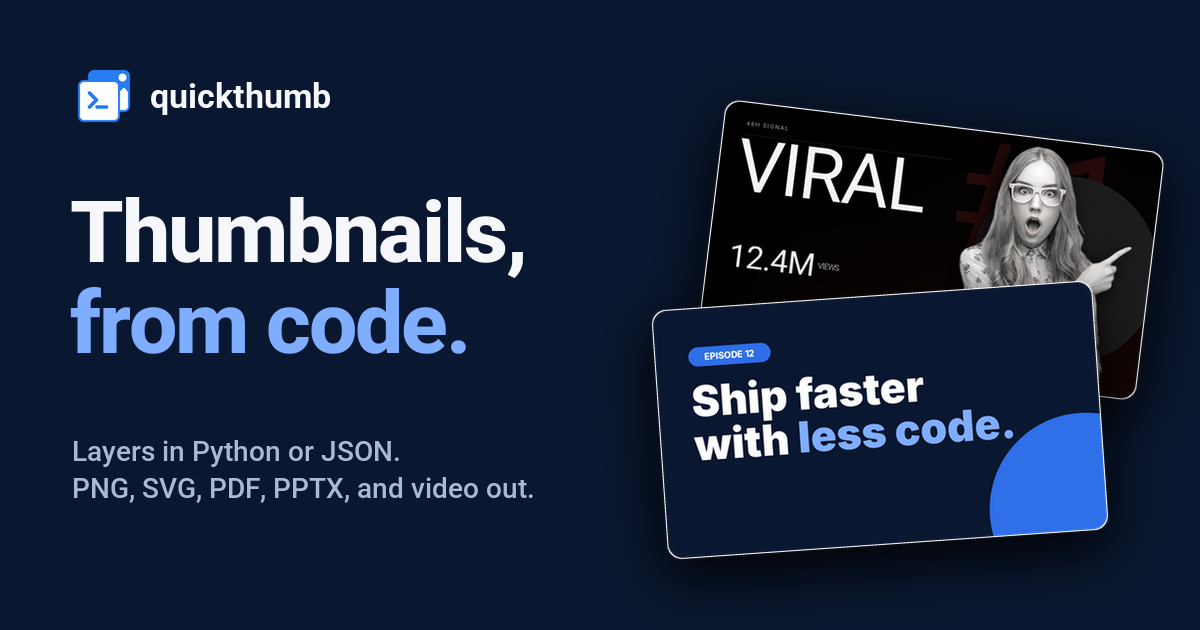
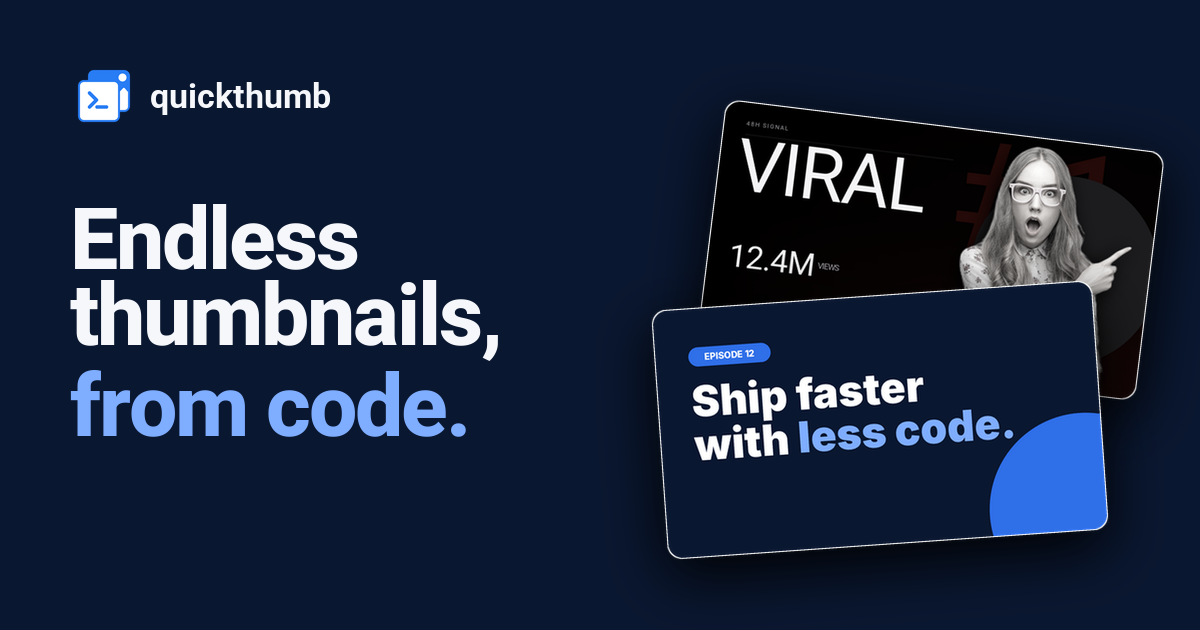
docs: focus social preview on endless thumbnails

Changed region(s): [[0.0617, 0.3016, 0.4625, 0.8143]]

diff --git a/examples/social_preview.py b/examples/social_preview.py
@@ -27,7 +27,6 @@ FONT = "Roboto"
 NAVY = "#0A1730"
 BLUE = "#7FADFF"
 WHITE = "#F5F7FB"
-MUTED = "#A9BBD4"
 CARD_EFFECTS = [
     Stroke(width=1, color="#FFFFFF33"),
     Shadow(offset_x=0, offset_y=18, color="#000000AA", blur_radius=28),
@@ -53,7 +52,7 @@ canvas = (
     )
     .text(
         content=[
-            TextPart(text="Thumbnails,\n", color=WHITE),
+            TextPart(text="Endless\nthumbnails,\n", color=WHITE),
             TextPart(text="from code.", color=BLUE),
         ],
         font=FONT,
@@ -62,15 +61,6 @@ canvas = (
         line_height=1.02,
         letter_spacing=-2,
         position=(70, 196),
-    )
-    .text(
-        content="Layers in Python or JSON.\nPNG, SVG, PDF, PPTX, and video out.",
-        font=FONT,
-        size=28,
-        weight=500,
-        color=MUTED,
-        line_height=1.4,
-        position=(72, 440),
     )
     # Back card: a real example render
     .image(
